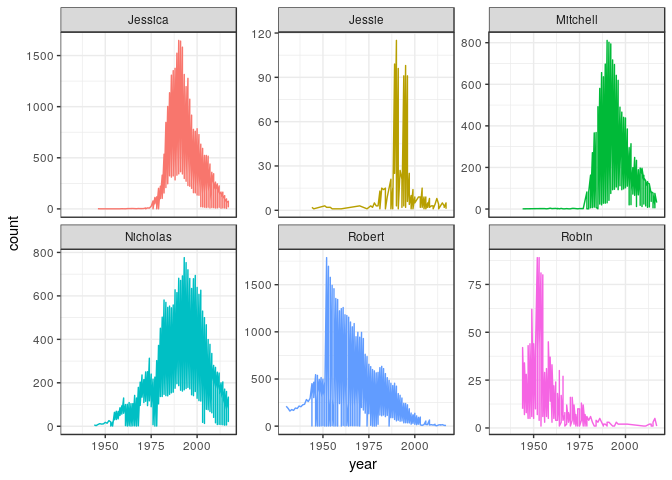
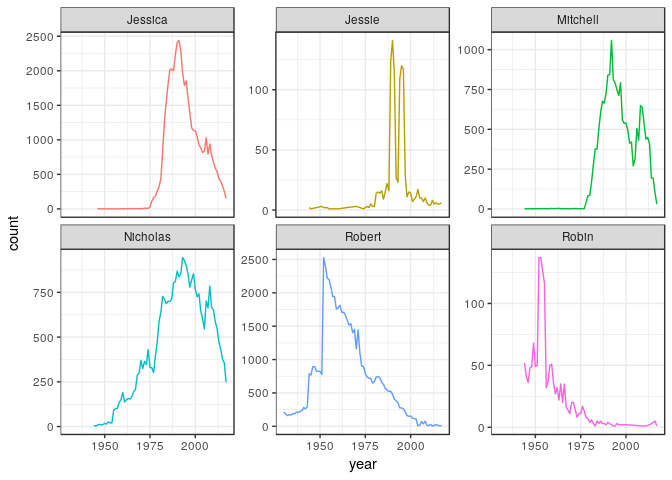
Fixed README author names example

diff --git a/README.md b/README.md
@@ -72,6 +72,8 @@ author_names <- c("Robin", "Robert", "Mitchell", "Nicholas", "Jessie", "Jessica"
 
 ozbabynames %>%
   filter(name %in% author_names) %>%
+  group_by(name, year) %>% 
+  summarise(count = sum(count)) %>% 
   ggplot(aes(x = year, 
              y = count,
              colour = name)) +
